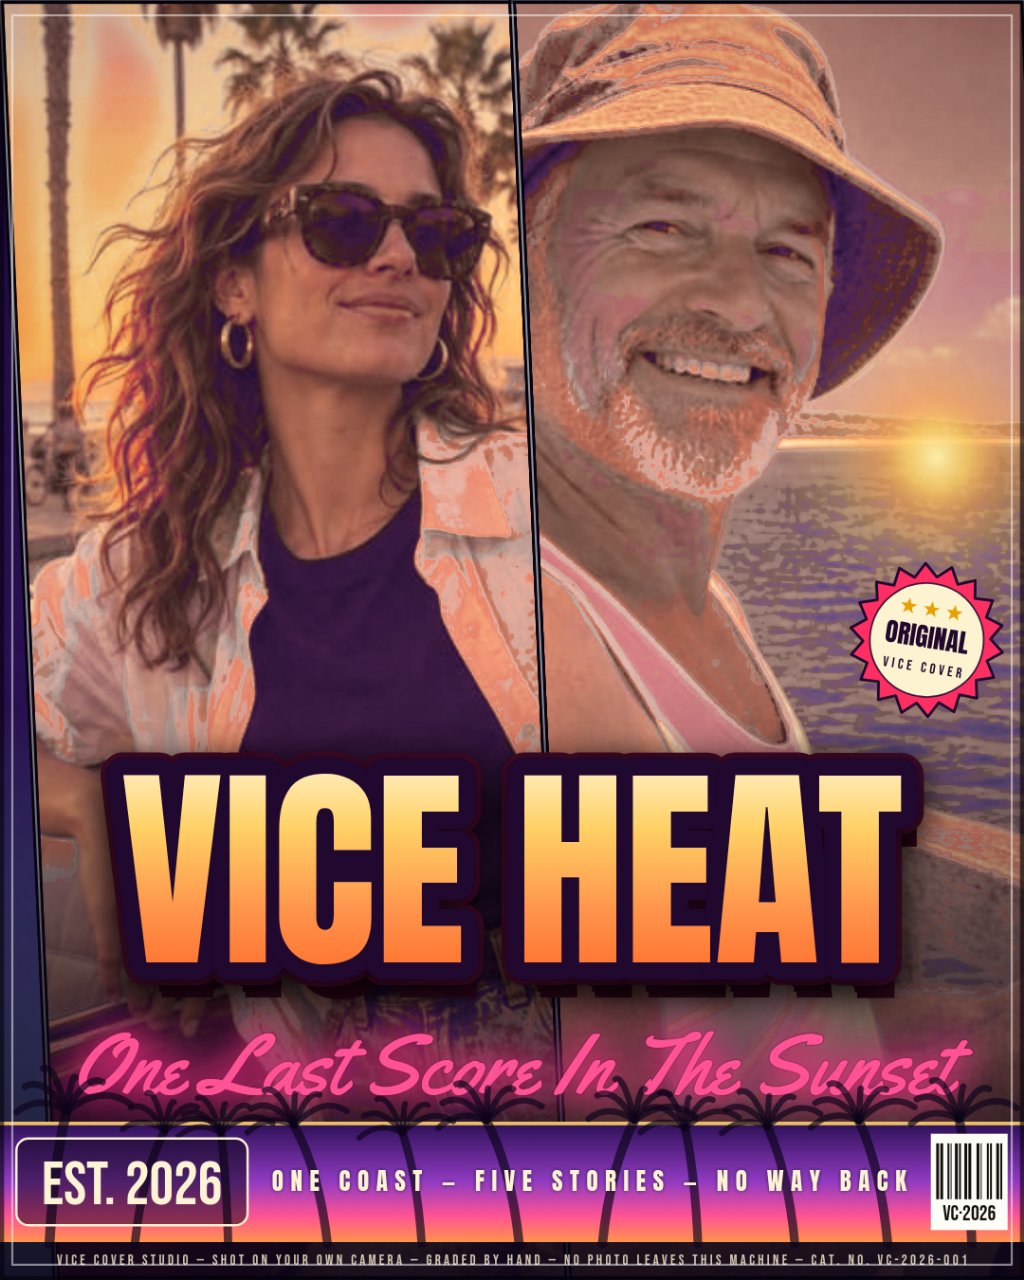
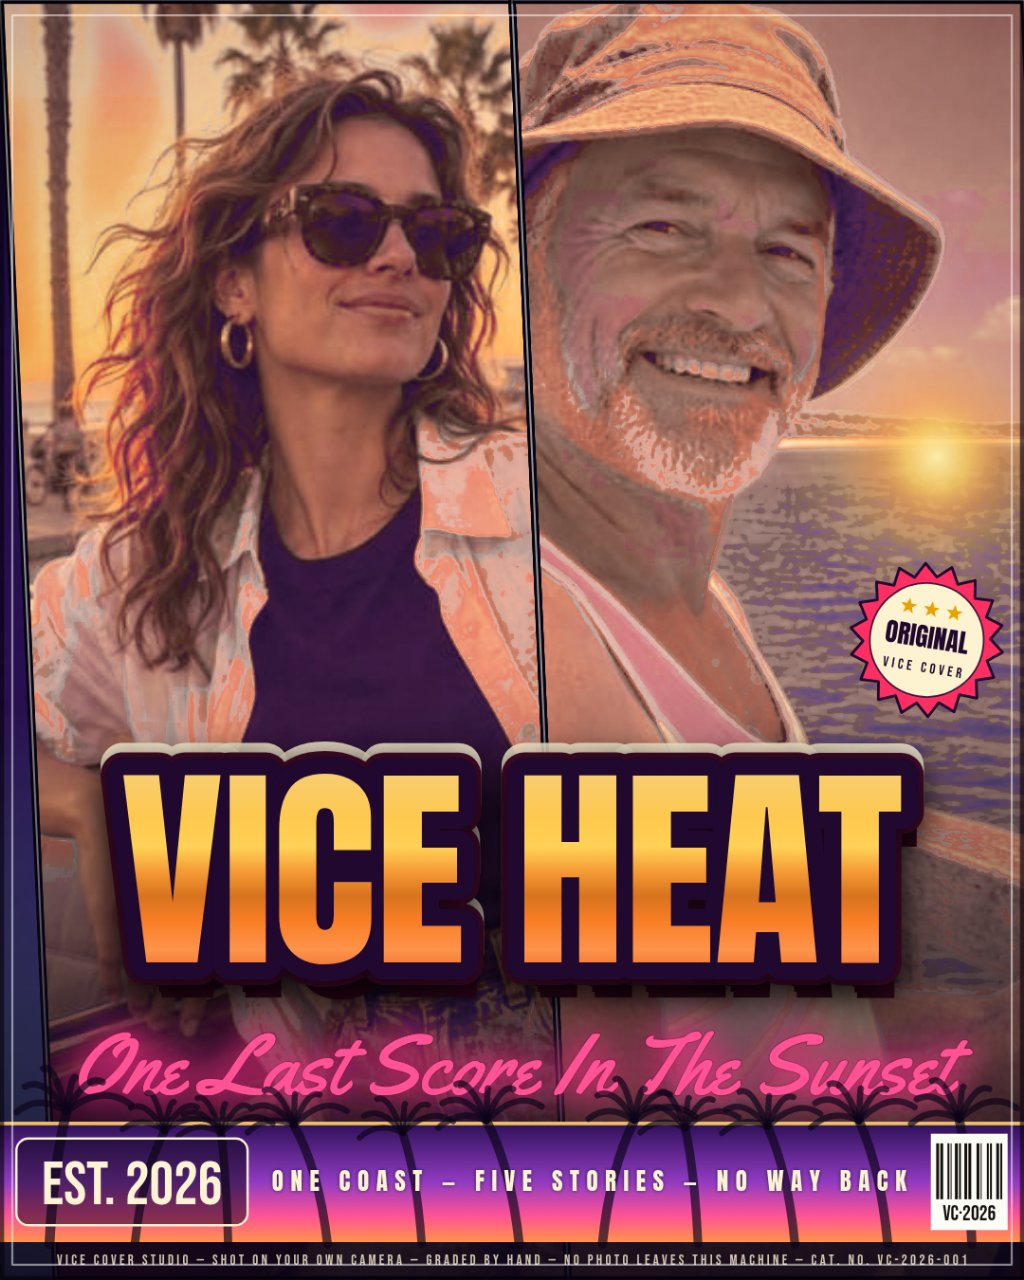
Round 29: softened chrome title, saturation restored

Changed region(s): [[0.5, 0.5625, 0.9062, 0.75], [0.0938, 0.5625, 0.4688, 0.75]]

diff --git a/app/src/poster.js b/app/src/poster.js
@@ -206,6 +206,30 @@ export const GRADES = {
     // solid impressions of the glyphs down and to the right in this
     // deep maroon-plum before the rim, outline and fill land.
     titleDepth: '#33081d',
+    // Round 29 (`titleChrome` + `titleBevel`): round 28's gold
+    // chrome split the judges — the depth and premium read won one,
+    // but both named the same three faults: the polished band ended
+    // in ONE hard straight horizon line across every letter, the
+    // pale cream stops washed the heat out of the letters' middle,
+    // and the near-white crown was the brightest object on the
+    // cover. This ramp keeps the chrome's value structure (a lit
+    // crown, a polished band, a horizon shade, a saturated reflected
+    // sheen, a deep base) and removes all three faults: every stop
+    // stays in saturated gold and orange — no cream, no near-white
+    // anywhere — the band's peak is warm gold instead of pale
+    // cream, the crown sits a step dimmer, and the horizon is a
+    // graded descent spread over a fifth of the span (band gold ->
+    // amber -> horizon shade -> sheen) instead of a cliff, so no
+    // single straight line survives for the eye to point at.
+    // `titleBevel` is the Noir top-edge trick in warm pale gold: a
+    // rim-width stroke a hair above the lettering, drawn before the
+    // rim and outline land, so a bright bevel line survives along
+    // the top edge of every letter. Fit, centre, slant, rim,
+    // outline and the round-16 extrusion do not move; `titleStops`
+    // stays as the fallback family for any caller that does not
+    // carry the chrome.
+    titleChrome: [[0, '#f6d488'], [0.14, '#f9cd6d'], [0.3, '#fec94e'], [0.42, '#ffd257'], [0.52, '#f59a35'], [0.62, '#d8731f'], [0.72, '#f97e26'], [0.84, '#ff944c'], [1, '#e05a1a']],
+    titleBevel: 'rgba(255, 244, 214, 0.85)',
     accent: '#ff2e63',
     tagText: '#1c0b3d',
     scrim: '10, 4, 20',
@@ -2267,6 +2291,11 @@ function drawTitle(ctx, w, title, noir, size, baseline, opts = {}) {
     grad.addColorStop(0.6, '#9a9a9a');
     grad.addColorStop(0.78, '#e2e2e2');
     grad.addColorStop(1, '#555555');
+  } else if (opts.chrome) {
+    // Gold chrome (round 29, Blockbuster): the grade's chrome ramp
+    // replaces the flat sunset gradient — same gradient span, but
+    // the stops carry the softened horizon of polished lettering.
+    for (const [p, c] of opts.chrome) grad.addColorStop(p, c);
   } else {
     for (const [p, c] of (opts.stops ?? TITLE_STOPS)) grad.addColorStop(p, c);
   }
@@ -2293,6 +2322,24 @@ function drawTitle(ctx, w, title, noir, size, baseline, opts = {}) {
   ctx.shadowBlur = size * 0.16;
   ctx.shadowOffsetY = size * 0.05;
   if (!noir) {
+    if (opts.chrome && opts.bevel) {
+      // The chrome's bright top bevel (round 29): the Noir edge
+      // trick, warmed — a rim-width stroke in pale gold a hair
+      // above the lettering, drawn before the rim so the rim and
+      // the dark outline cover all but a bright line along the top
+      // edge of every letter. It is drawn with the drop shadow
+      // switched off: the shadow stays cast by the rim and outline
+      // alone, exactly as before, so the title's shadow footprint
+      // on the panels under it does not move by a single pixel.
+      ctx.save();
+      ctx.shadowColor = 'rgba(0, 0, 0, 0)';
+      ctx.shadowBlur = 0;
+      ctx.shadowOffsetY = 0;
+      ctx.strokeStyle = opts.bevel;
+      ctx.lineWidth = size * 0.16 + Math.max(3, size * 0.05);
+      ctx.strokeText(title, cx, baseline - size * 0.045);
+      ctx.restore();
+    }
     // Thin complementary rim, widest stroke first.
     ctx.strokeStyle = opts.rim ?? '#19e3ff';
     ctx.lineWidth = size * 0.16 + Math.max(3, size * 0.05);
@@ -2471,7 +2518,7 @@ export function drawPoster(canvas, state) {
     if (title) {
       const size = fitFont(ctx, title, w * 0.94, bandH * 0.46, 'Anton, "Arial Black", sans-serif');
       titleBox = drawTitle(ctx, w, title, noir, size, gridH + bandH * 0.55,
-        { stops: grade.titleStops, rim: grade.titleRim, depth: grade.titleDepth });
+        { stops: grade.titleStops, rim: grade.titleRim, depth: grade.titleDepth, chrome: grade.titleChrome, bevel: grade.titleBevel });
     }
   } else {
     // Scrim so the lettering reads over any photo. A dressed poster
@@ -2534,7 +2581,7 @@ export function drawPoster(canvas, state) {
       }
       titleBox = drawTitle(ctx, w, title, noir, size,
         bandTitle ? h * 0.738 : (dressed ? h * 0.752 : h * 0.865),
-        { cx: bandTitle ? w * 0.36 : (heroCx ?? w / 2), stops: grade.titleStops, rim: grade.titleRim, depth: grade.titleDepth });
+        { cx: bandTitle ? w * 0.36 : (heroCx ?? w / 2), stops: grade.titleStops, rim: grade.titleRim, depth: grade.titleDepth, chrome: grade.titleChrome, bevel: grade.titleBevel });
       titleBox.band = bandTitle;
     }
   }
